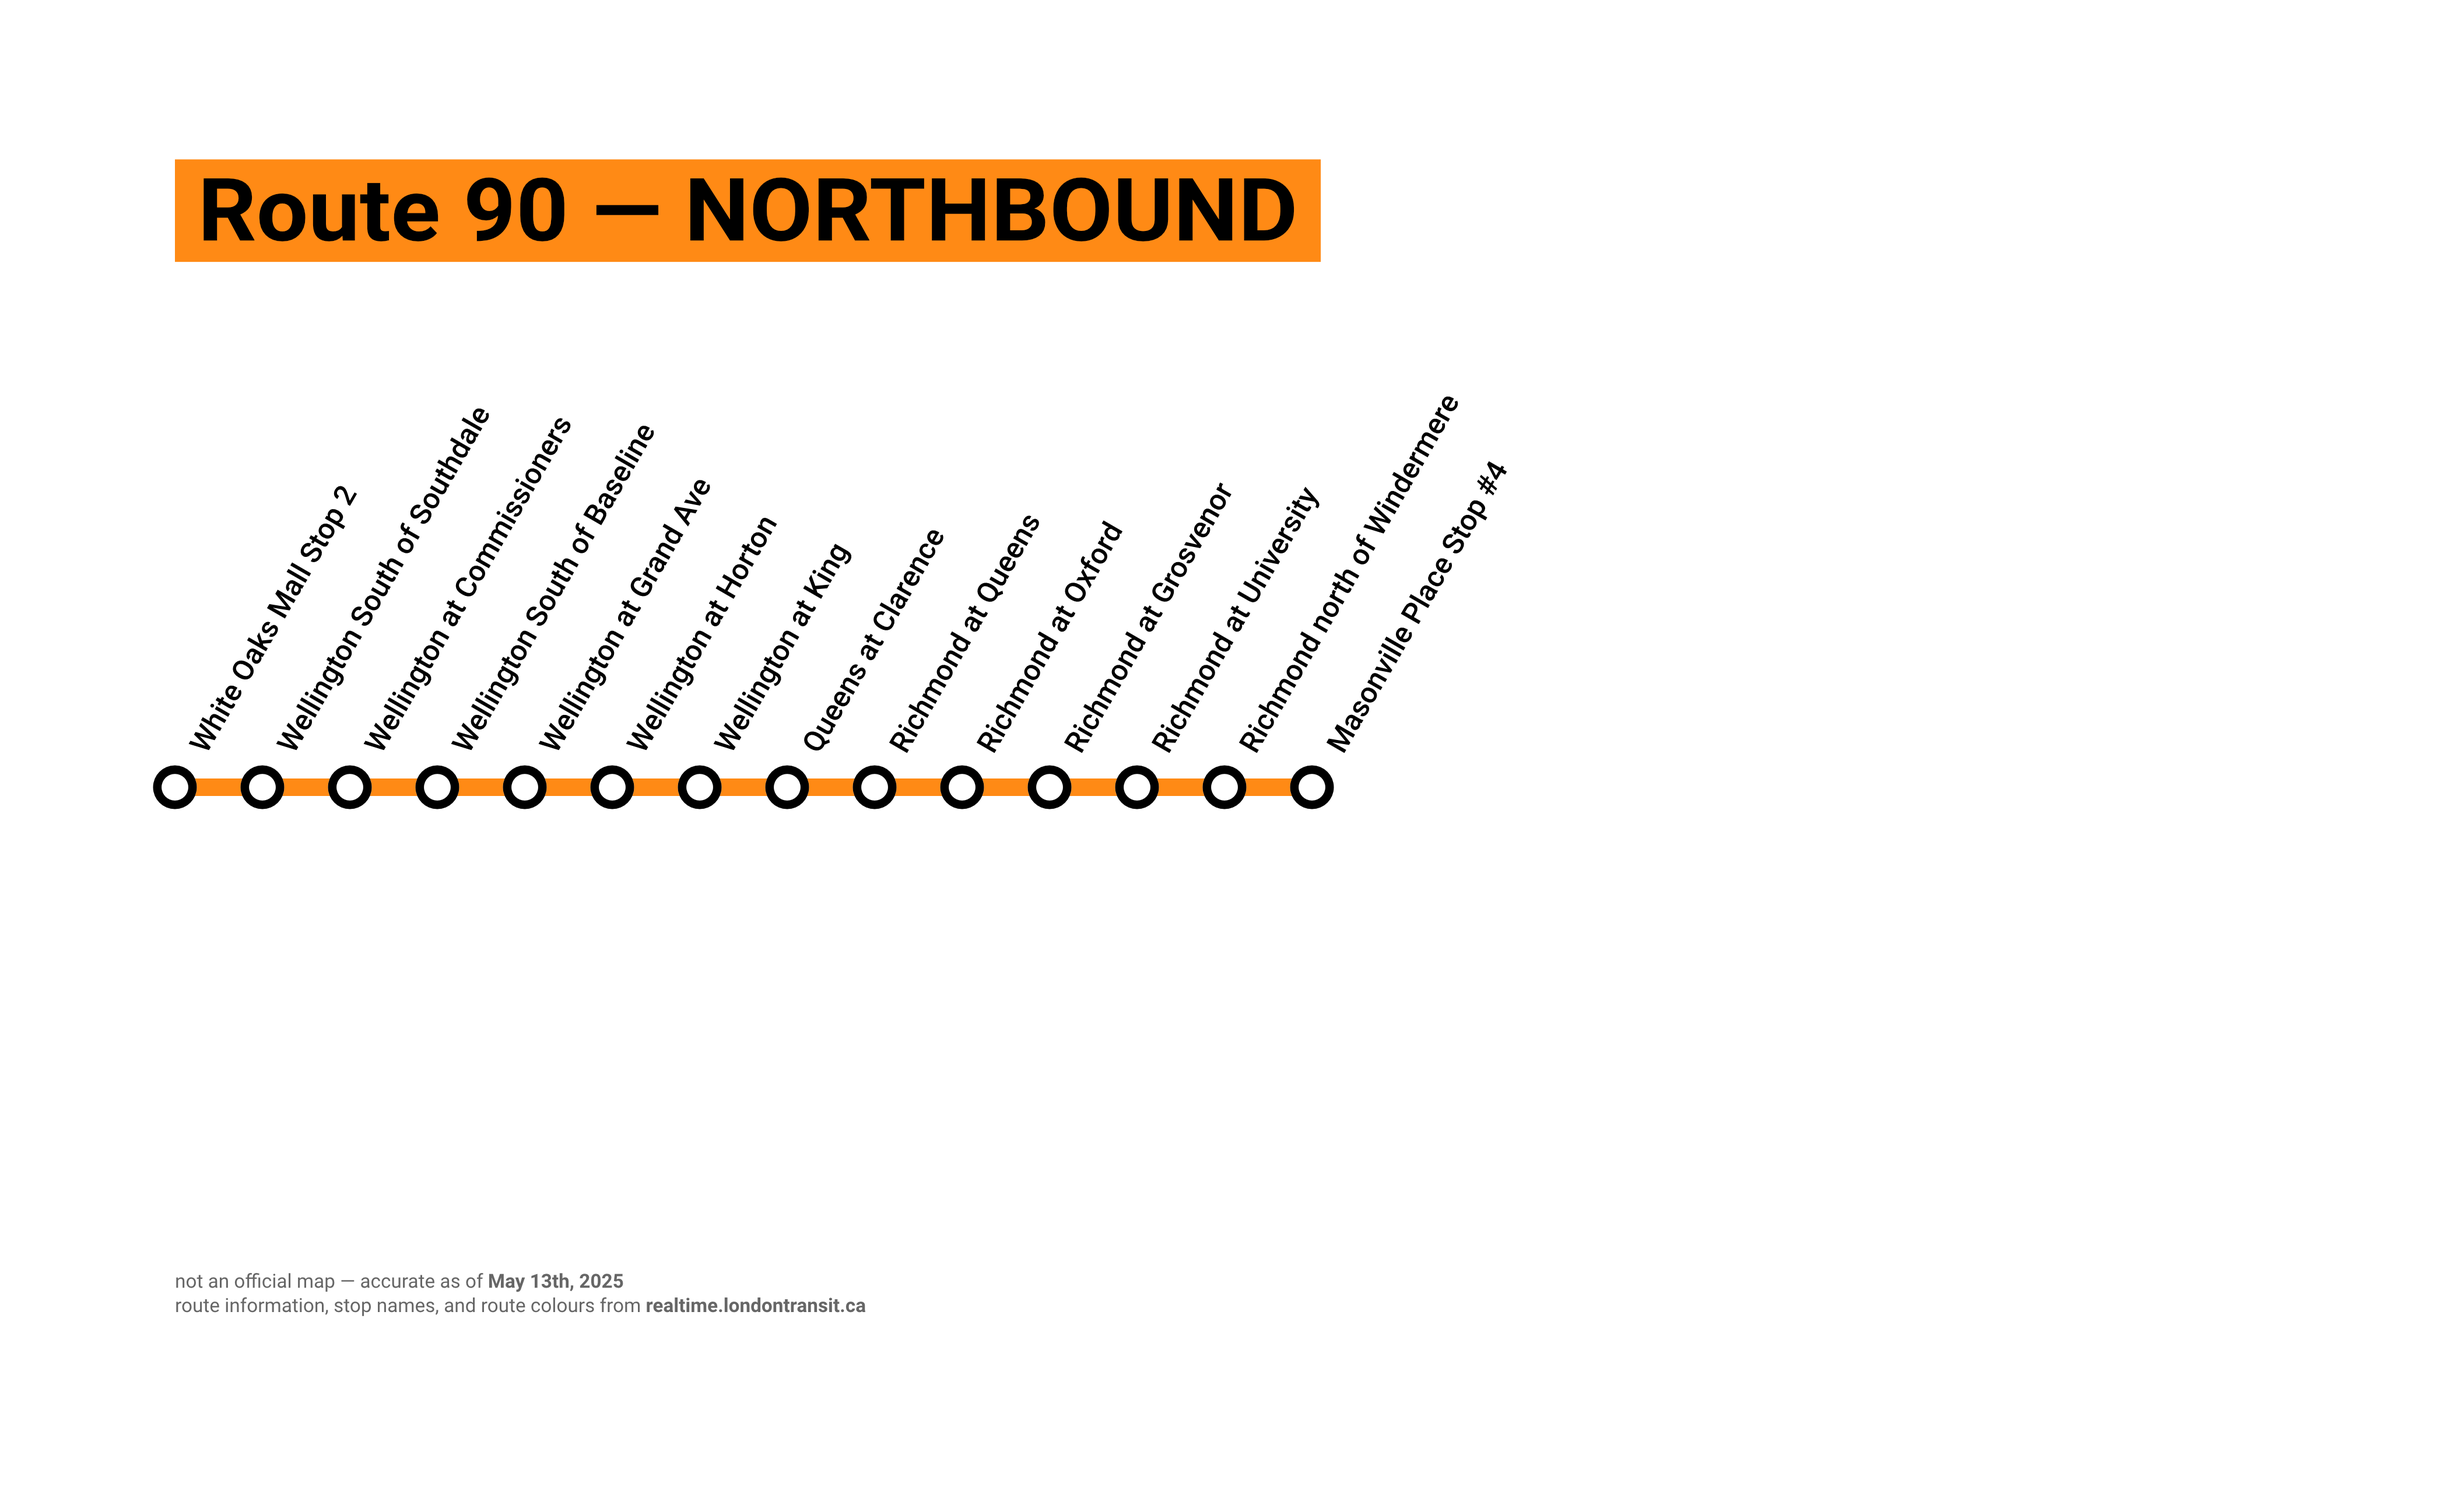
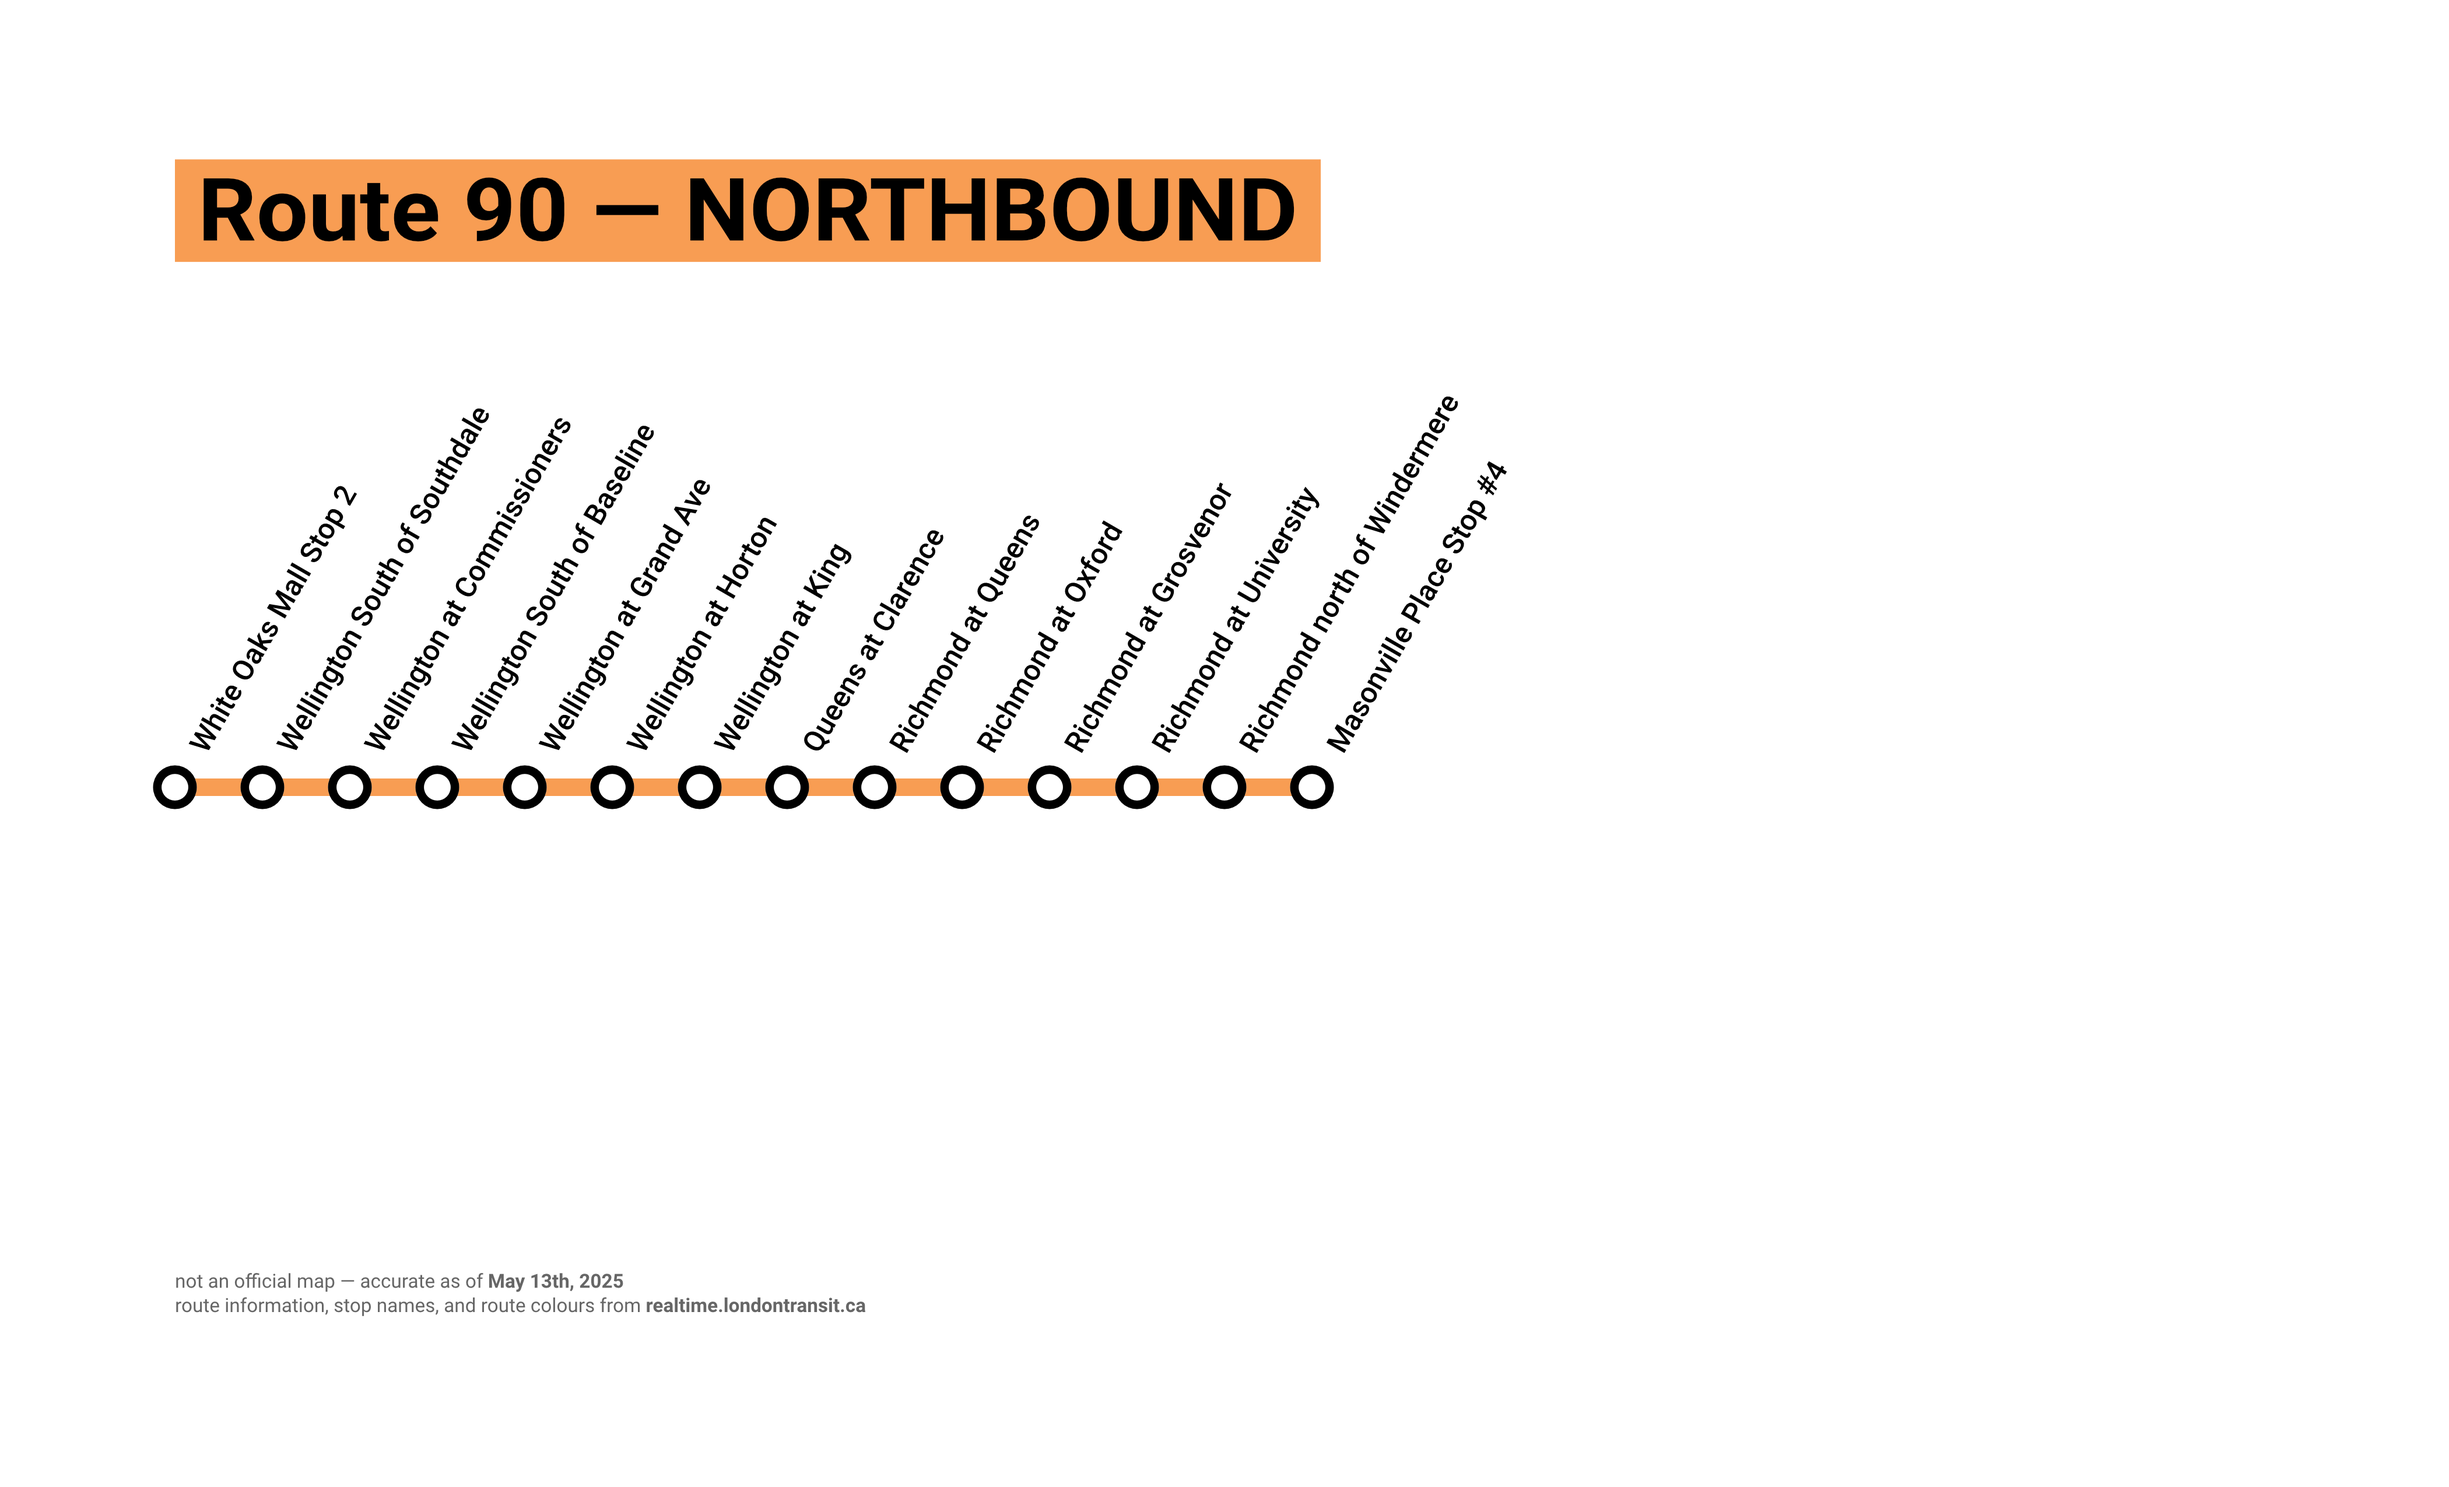
BUS DATA v1.0.4, etc.

Changed region(s): [[0.0624, 0.0929, 0.5614, 0.1859], [0.0624, 0.5267, 0.5302, 0.5576]]

diff --git a/public/projects/bus-data.html b/public/projects/bus-data.html
@@ -268,9 +268,9 @@
 				color: var(--base0E);
 			}
 
-			td:has(.fa-sharp):not(td[colspan="3"]),
-			td:has(.fa-sharp):not(td[colspan="3"]) i,
-			td:has(.fa-sharp):not(td[colspan="3"]) span.bold {
+			.route-maps-table td:has(.fa-sharp):not(td[colspan="3"]),
+			.route-maps-table td:has(.fa-sharp):not(td[colspan="3"]) i,
+			.route-maps-table td:has(.fa-sharp):not(td[colspan="3"]) span.bold {
 				color: var(--base0D);
 			}
 
@@ -3688,12 +3688,14 @@
 				],
 			];
 			document.querySelectorAll(".settings-option").forEach((button) => {
+				let setting = mapSettings[0].indexOf(button.parentNode.parentNode.children[0].innerHTML);
+				let option = mapSettings[setting + 1].indexOf(button.innerHTML);
+
+				button.title = `select “${button.innerHTML}” (${setting}:${option})`;
+
 				button.addEventListener("click", () => {
 					button.parentNode.querySelector(".selected-setting").classList.remove("selected-setting");
 					button.classList.add("selected-setting");
-
-					let setting = mapSettings[0].indexOf(button.parentNode.parentNode.children[0].innerHTML);
-					let option = mapSettings[setting + 1].indexOf(button.innerHTML);
 
 					if (setting == 0) {
 						if (option == 0) mapOptions[0] = true;
@@ -3746,7 +3748,7 @@
 
 			<br />
 
-			<p>v1.0.3 — June 27th, 2025 — <a href="" title="this page (click to refresh)">pinniped.page/projects/bus-data</a></p>
+			<p>v1.0.4 — June 28th, 2025 — <a href="" title="this page (click to refresh)">pinniped.page/projects/bus-data</a></p>
 			<p>
 				a project by <a href="../about.html" title="pinniped.page — About">Obsidian_Seal</a> — not affiliated with
 				<a href="https://londontransit.ca/" target="_blank" title="London Transit&rsquo;s website [EXTERNAL]">London Transit</a>
@@ -4050,14 +4052,14 @@
 					</tr>
 					<tr>
 						<td rowspan="2">90</td>
-						<td><i class="fa-sharp fa-solid fa-circle-pause"></i>awaiting update — current version from <span class="bold">May 13th, 2025</span></td>
+						<td><i class="fa-sharp fa-solid fa-badge-check"></i>completed — last updated: <span class="bold">June 28th, 2025</span></td>
 						<td>
 							<a href="../download.html?x=bus-data-route-maps/pdf/90-northbound.pdf" target="_blank" title="90-northbound.pdf">90-northbound.pdf</a>
 						</td>
 						<td><a href="../download.html?x=bus-data-route-maps/png/90-northbound.png" target="_blank" title="90-northbound.png">90-northbound.png</a></td>
 					</tr>
 					<tr>
-						<td><i class="fa-sharp fa-solid fa-circle-pause"></i>awaiting update — current version from <span class="bold">May 14th, 2025</span></td>
+						<td><i class="fa-sharp fa-solid fa-badge-check"></i>completed — last updated: <span class="bold">June 28th, 2025</span></td>
 						<td><a href="../download.html?x=bus-data-route-maps/pdf/90-southbound.pdf" target="_blank" title="90-southbound.pdf">90-southbound.pdf</a></td>
 						<td><a href="../download.html?x=bus-data-route-maps/png/90-southbound.png" target="_blank" title="90-southbound.png">90-southbound.png</a></td>
 					</tr>
@@ -4322,7 +4324,13 @@
 						<li>buses have a trail that shows where they have been recently</li>
 						<li>hover over a bus to learn more about it (the information from the main table is shown)</li>
 						<li id="route-colour-list">
-							route colours are specified by
+							<a
+								href="https://docs.google.com/spreadsheets/d/e/2PACX-1vRZRbo7KXGE2Md4nVdKlA89po-ZxmD57EWqCJ8NA6359kSvW0JMf4P-2z4ieUTisAkTsmZ-M3zmJQ7J/pubhtml"
+								target="_blank"
+								title="Google Sheets > LTC Route Colours [EXTERNAL]"
+								>route colours</a
+							>
+							are specified by
 							<a
 								href="https://realtime.londontransit.ca/#/app/nextdepartures"
 								target="_blank"
@@ -4332,8 +4340,15 @@
 							as follows:<br />
 						</li>
 						<li>
-							hover over the route numbers above to see their associated colour&rsquo;s
-							<a href="https://en.wikipedia.org/wiki/Web_colors#Hex_triplet" target="_blank" title="Wikipedia > Web colors > Hex triplet">hex code</a>
+							to see the routes&rsquo;
+							<a href="https://en.wikipedia.org/wiki/Web_colors#Hex_triplet" target="_blank" title="Wikipedia > Web colors > Hex triplet">hex codes</a>, hover
+							over the route numbers above or visit
+							<a
+								href="https://docs.google.com/spreadsheets/d/e/2PACX-1vRZRbo7KXGE2Md4nVdKlA89po-ZxmD57EWqCJ8NA6359kSvW0JMf4P-2z4ieUTisAkTsmZ-M3zmJQ7J/pubhtml"
+								target="_blank"
+								title="Google Sheets > LTC Route Colours [EXTERNAL]"
+								>my route colours list and route map progress tracker</a
+							>
 						</li>
 						<li>this page does not update if you leave, so there will be gaps in the bus trails if you leave and then return after more than 30 seconds</li>
 						<li>the bus map is technically an image, so you can save and/or copy it like you would any other</li>
@@ -4347,7 +4362,7 @@
 				<h1>LOADING<d id="d1">.</d><d id="d2">.</d><d id="d3">.</d></h1>
 				<br />
 				<p>
-					<span><a href="" title="this page (click to refresh)">BUS DATA</a> v1.0.3</span>
+					<span><a href="" title="this page (click to refresh)">BUS DATA</a> v1.0.4</span>
 				</p>
 				<br />
 				<p><a href="../status.html" title="pinniped.page — Status">website status</a>/<a href="../contact.html" title="pinniped.page — Contact">report a problem</a></p>

diff --git a/public/status.html b/public/status.html
@@ -1266,20 +1266,8 @@
 			if (percentString.indexOf(".") == -1) percentString += ".00";
 			if (percentString.substring(percentString.indexOf(".")).length == 2) percentString += "0";
 			document.querySelector("#percentage").innerHTML = `${percentString}%`;
-
-			document.querySelectorAll(".same-page-link").forEach((link) => {
-				link.addEventListener("click", () => {
-					setTimeout(() => {
-						window.scrollBy({ top: -80, left: 0, behavior: "smooth" });
-					}, 50);
-				});
-			});
-
-			window.addEventListener("load", () => {
-				if (location.href.includes("#")) {
-					window.scrollBy({ top: -80, left: 0, behavior: "smooth" });
-				}
-			});
 		</script>
+
+		<script src="files/id-link-scroll-up.js"></script>
 	</body>
 </html>

diff --git a/public/projects/graph-theory.html b/public/projects/graph-theory.html
@@ -892,20 +892,6 @@
 
 		<script src="../files/to-top.js"></script>
 
-		<script>
-			document.querySelectorAll(".same-page-link").forEach((link) => {
-				link.addEventListener("click", () => {
-					setTimeout(() => {
-						window.scrollBy({ top: -80, left: 0, behavior: "smooth" });
-					}, 50);
-				});
-			});
-
-			window.addEventListener("load", () => {
-				if (location.href.includes("#")) {
-					window.scrollBy({ top: -80, left: 0, behavior: "smooth" });
-				}
-			});
-		</script>
+		<script src="../files/id-link-scroll-up.js"></script>
 	</body>
 </html>

diff --git a/public/files/id-link-scroll-up.js b/public/files/id-link-scroll-up.js
@@ -1,0 +1,13 @@
+document.querySelectorAll(".same-page-link").forEach((link) => {
+	link.addEventListener("click", () => {
+		setTimeout(() => {
+			window.scrollBy({ top: -80, left: 0, behavior: "smooth" });
+		}, 50);
+	});
+});
+
+window.addEventListener("load", () => {
+	if (location.href.includes("#")) {
+		window.scrollBy({ top: -80, left: 0, behavior: "smooth" });
+	}
+});
